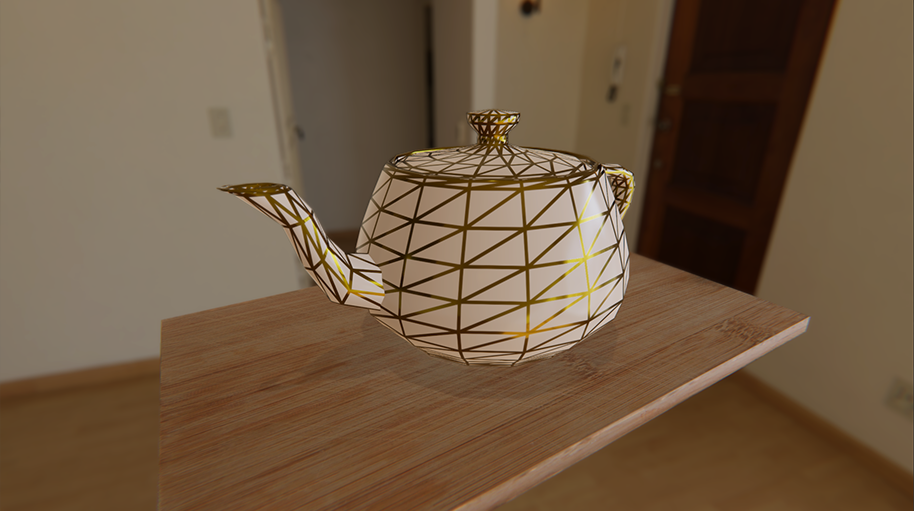
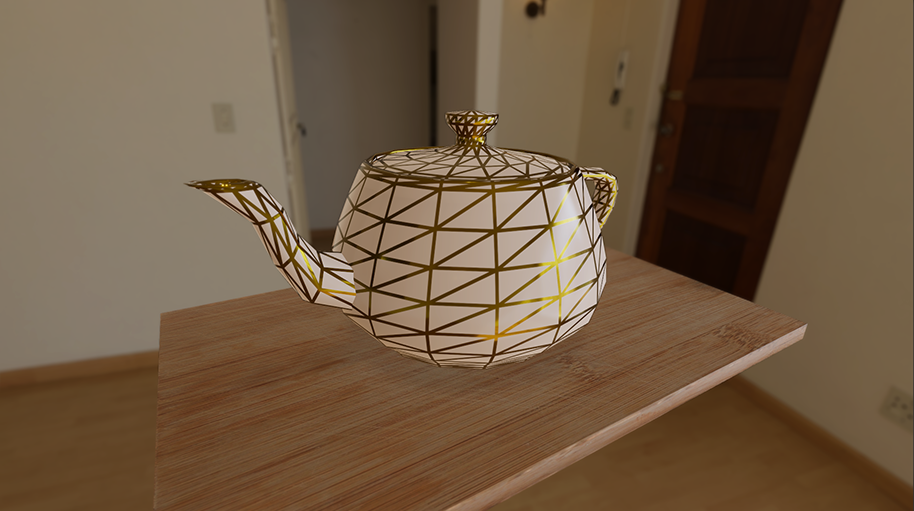
Add screenshot 🎐

diff --git a/README.md b/README.md
@@ -15,6 +15,9 @@ Some examples of how can you use geometry shader in Unity URP.
 ![](/Images/screenshots-wireframe-lit.png)
 > Wireframe Lit Shader
 
+![](/Images/screenshots-tessellation-lit.png)
+> Tessellation Lit Shader
+
 ## Resources
 - Model - [Battle Damaged Sci-fi Helmet - PBR](https://github.com/KhronosGroup/glTF-Sample-Models/tree/master/2.0/DamagedHelmet) by [Leonardo Carrion](https://sketchfab.com/theblueturtle_)
 - Model - [Cutting Board 003](https://www.poliigon.com/model/cutting-board-003) by [Poliigon](https://www.poliigon.com/)
